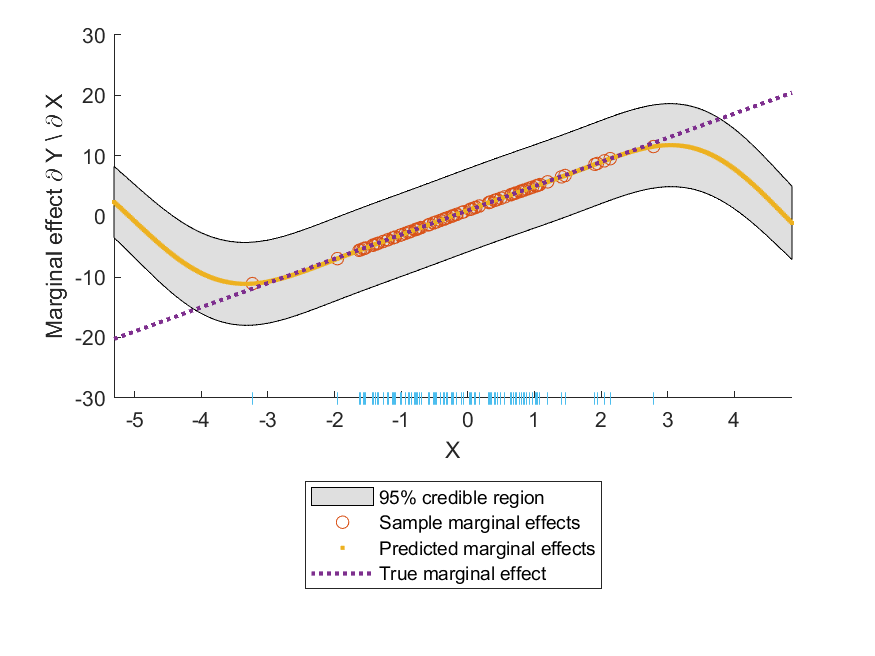
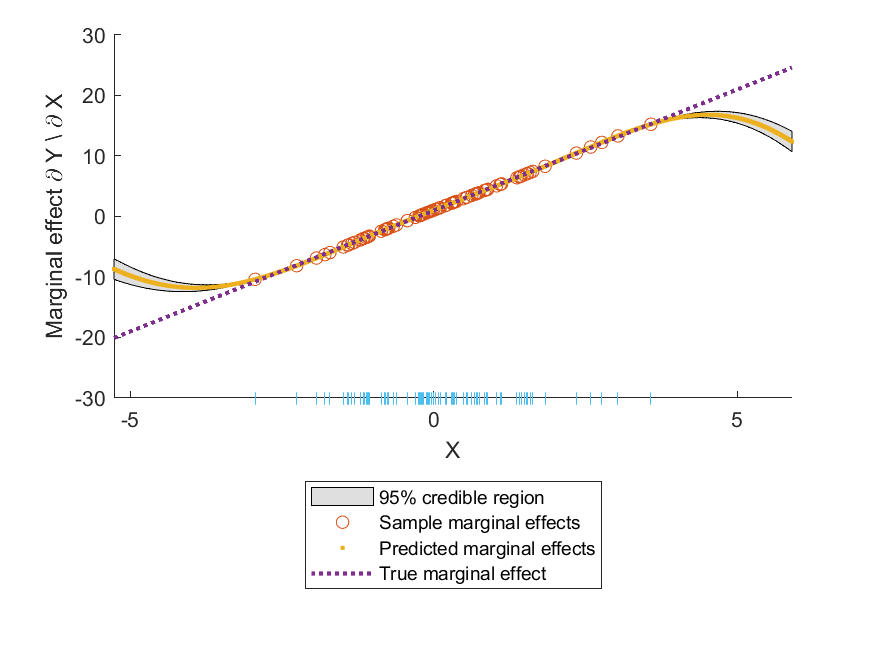
Rebuild me.m
The previous version of me.m had an error in the matrix algebra. Simplify and fix the error. This improves simulations.

diff --git a/me.m b/me.m
@@ -18,35 +18,20 @@ function [ mean_vec, var_vec ] = me(hyp, meanfunc, covfunc, X, y, xs)
         Lambda = diag(exp(hyp.cov(1:D)).^2);             % hyp.cov(D+1) is the scale factor
     end
     
-    % Define uninverted C(X) + sn^2 I
-    Cs = (feval(covfunc{:}, hyp.cov, X) + exp(hyp.lik)^2 * eye(N));
-    
-    % Define xs - xi, a 1xD vec, which is N x D
-    dXs = zeros(N,D);
-    for i = 1:N
-        dXs(i,:) = xs - X(i,:);
-    end
-    
-    % Make partial derivative c(xs,X) partial xs, which is DxN
+    % Make the total derivative c(xs,X) w.r.t. xs, which is a DxN matrix
     d_c_xs_X_dxs = zeros(D,N);
     for i = 1:N
-        d_c_xs_X_dxs(:,i) = -(Lambda^-1) * (xs' - X(i,:)') * feval(covfunc{:}, hyp.cov, X(i,:), xs);
+        d_c_xs_X_dxs(:,i) = (Lambda^-1) * (X(i,:) - xs)' * feval(covfunc{:}, hyp.cov, X(i,:), xs);
     end
-    
-    %
-    %
-    % Make the mean function and the covariance function from the components defined above.
-    %
-    %
 
-    % mean function
-    mean_vec = - Lambda^-1 * dXs' * (feval(covfunc{:}, hyp.cov, X, xs) .* (Cs \ y));
+    % Make the total derivative of the mean at xs
+    mean_vec = d_c_xs_X_dxs * ((feval(covfunc{:}, hyp.cov, X) + exp(hyp.lik)^2 * eye(N)) \ y);
 
-    % vcov function
-    if str2num(feval(covfunc{:})) == 2
-        var_mat = Lambda^-1 * exp(hyp.cov(2))^2 - d_c_xs_X_dxs * inv(Cs) * (-d_c_xs_X_dxs');
-    else % If it's not covSEiso, then it's covSEard
-        var_mat = Lambda^-1 * exp(hyp.cov(D+1))^2 - d_c_xs_X_dxs * inv(Cs) * (-d_c_xs_X_dxs');
+    % The vcov matrix of the total derivative of the mean at xs
+    if str2num(feval(covfunc{:})) == 2      % If covfunc = {@covSEiso}
+        var_mat = (exp(hyp.cov(2))^2) * (Lambda^-1) - d_c_xs_X_dxs * inv(feval(covfunc{:}, hyp.cov, X) + exp(hyp.lik)^2 * eye(N)) * d_c_xs_X_dxs';
+    else                                    % If covfunc = {@covSEard}
+        var_mat = (exp(hyp.cov(D+1))^2) * (Lambda^-1) - d_c_xs_X_dxs * inv(feval(covfunc{:}, hyp.cov, X) + exp(hyp.lik)^2 * eye(N)) * d_c_xs_X_dxs';
     end
     
     % Only return the diagonals of var_mat, which corresponds to the
